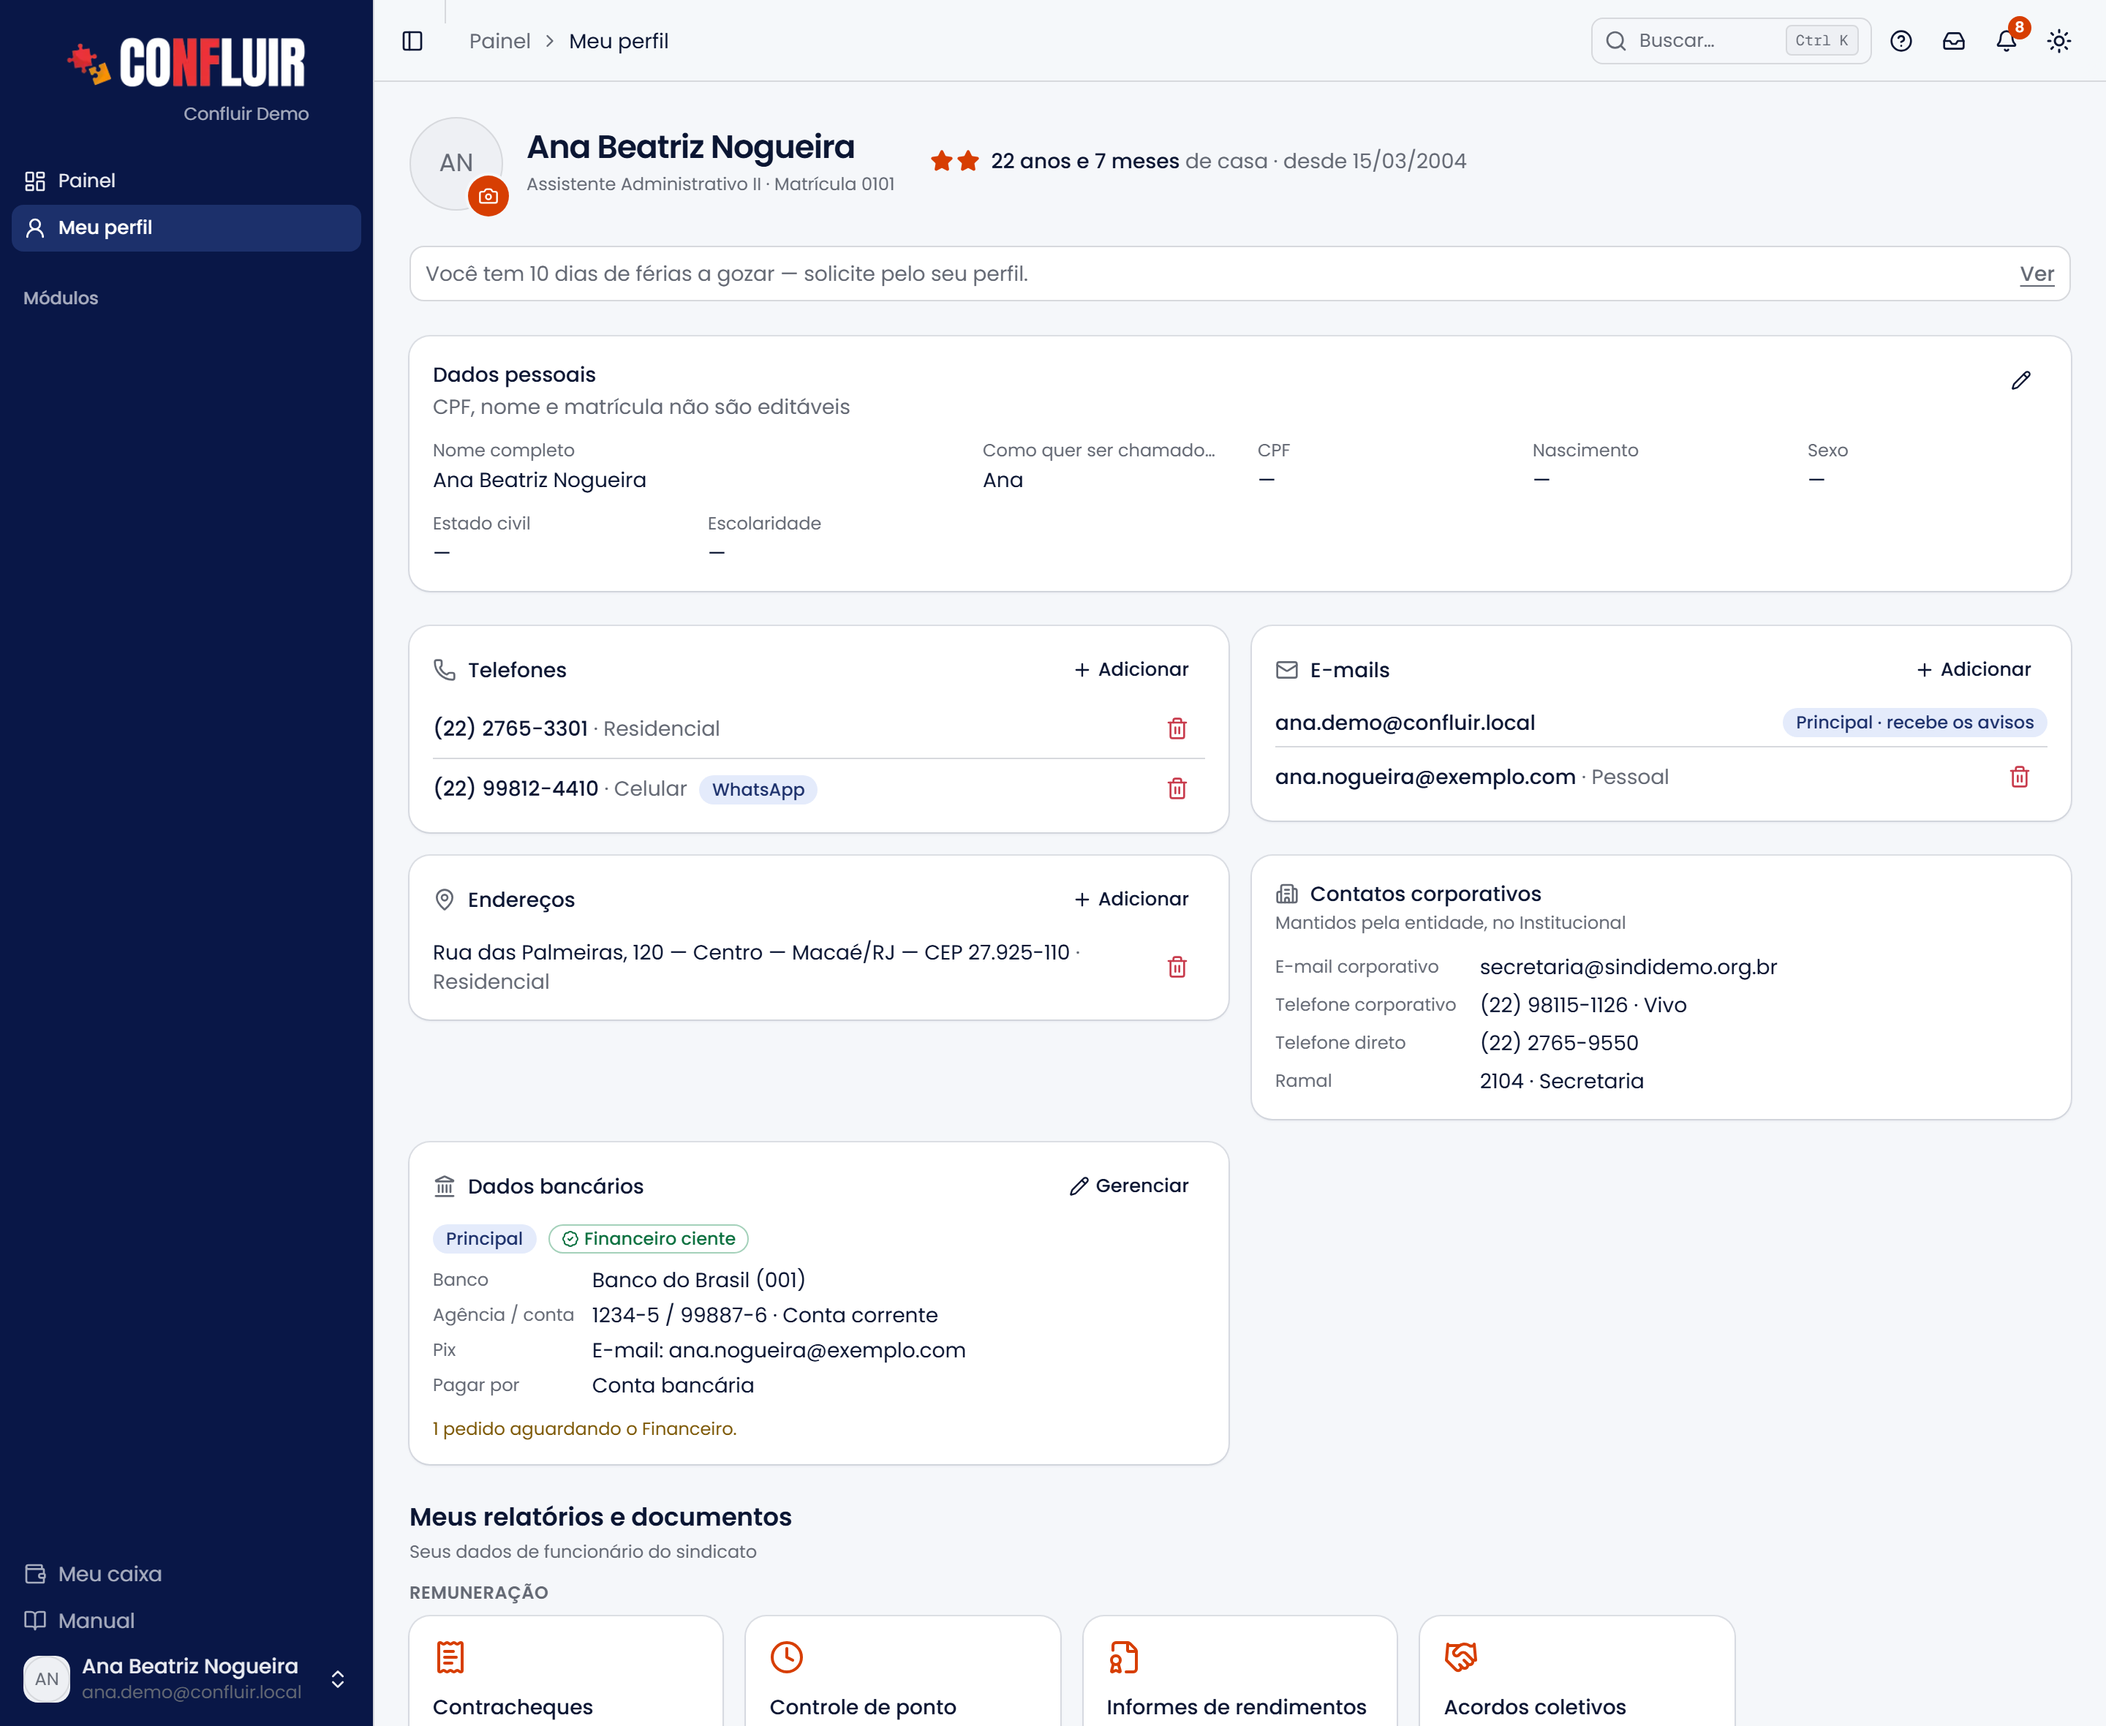
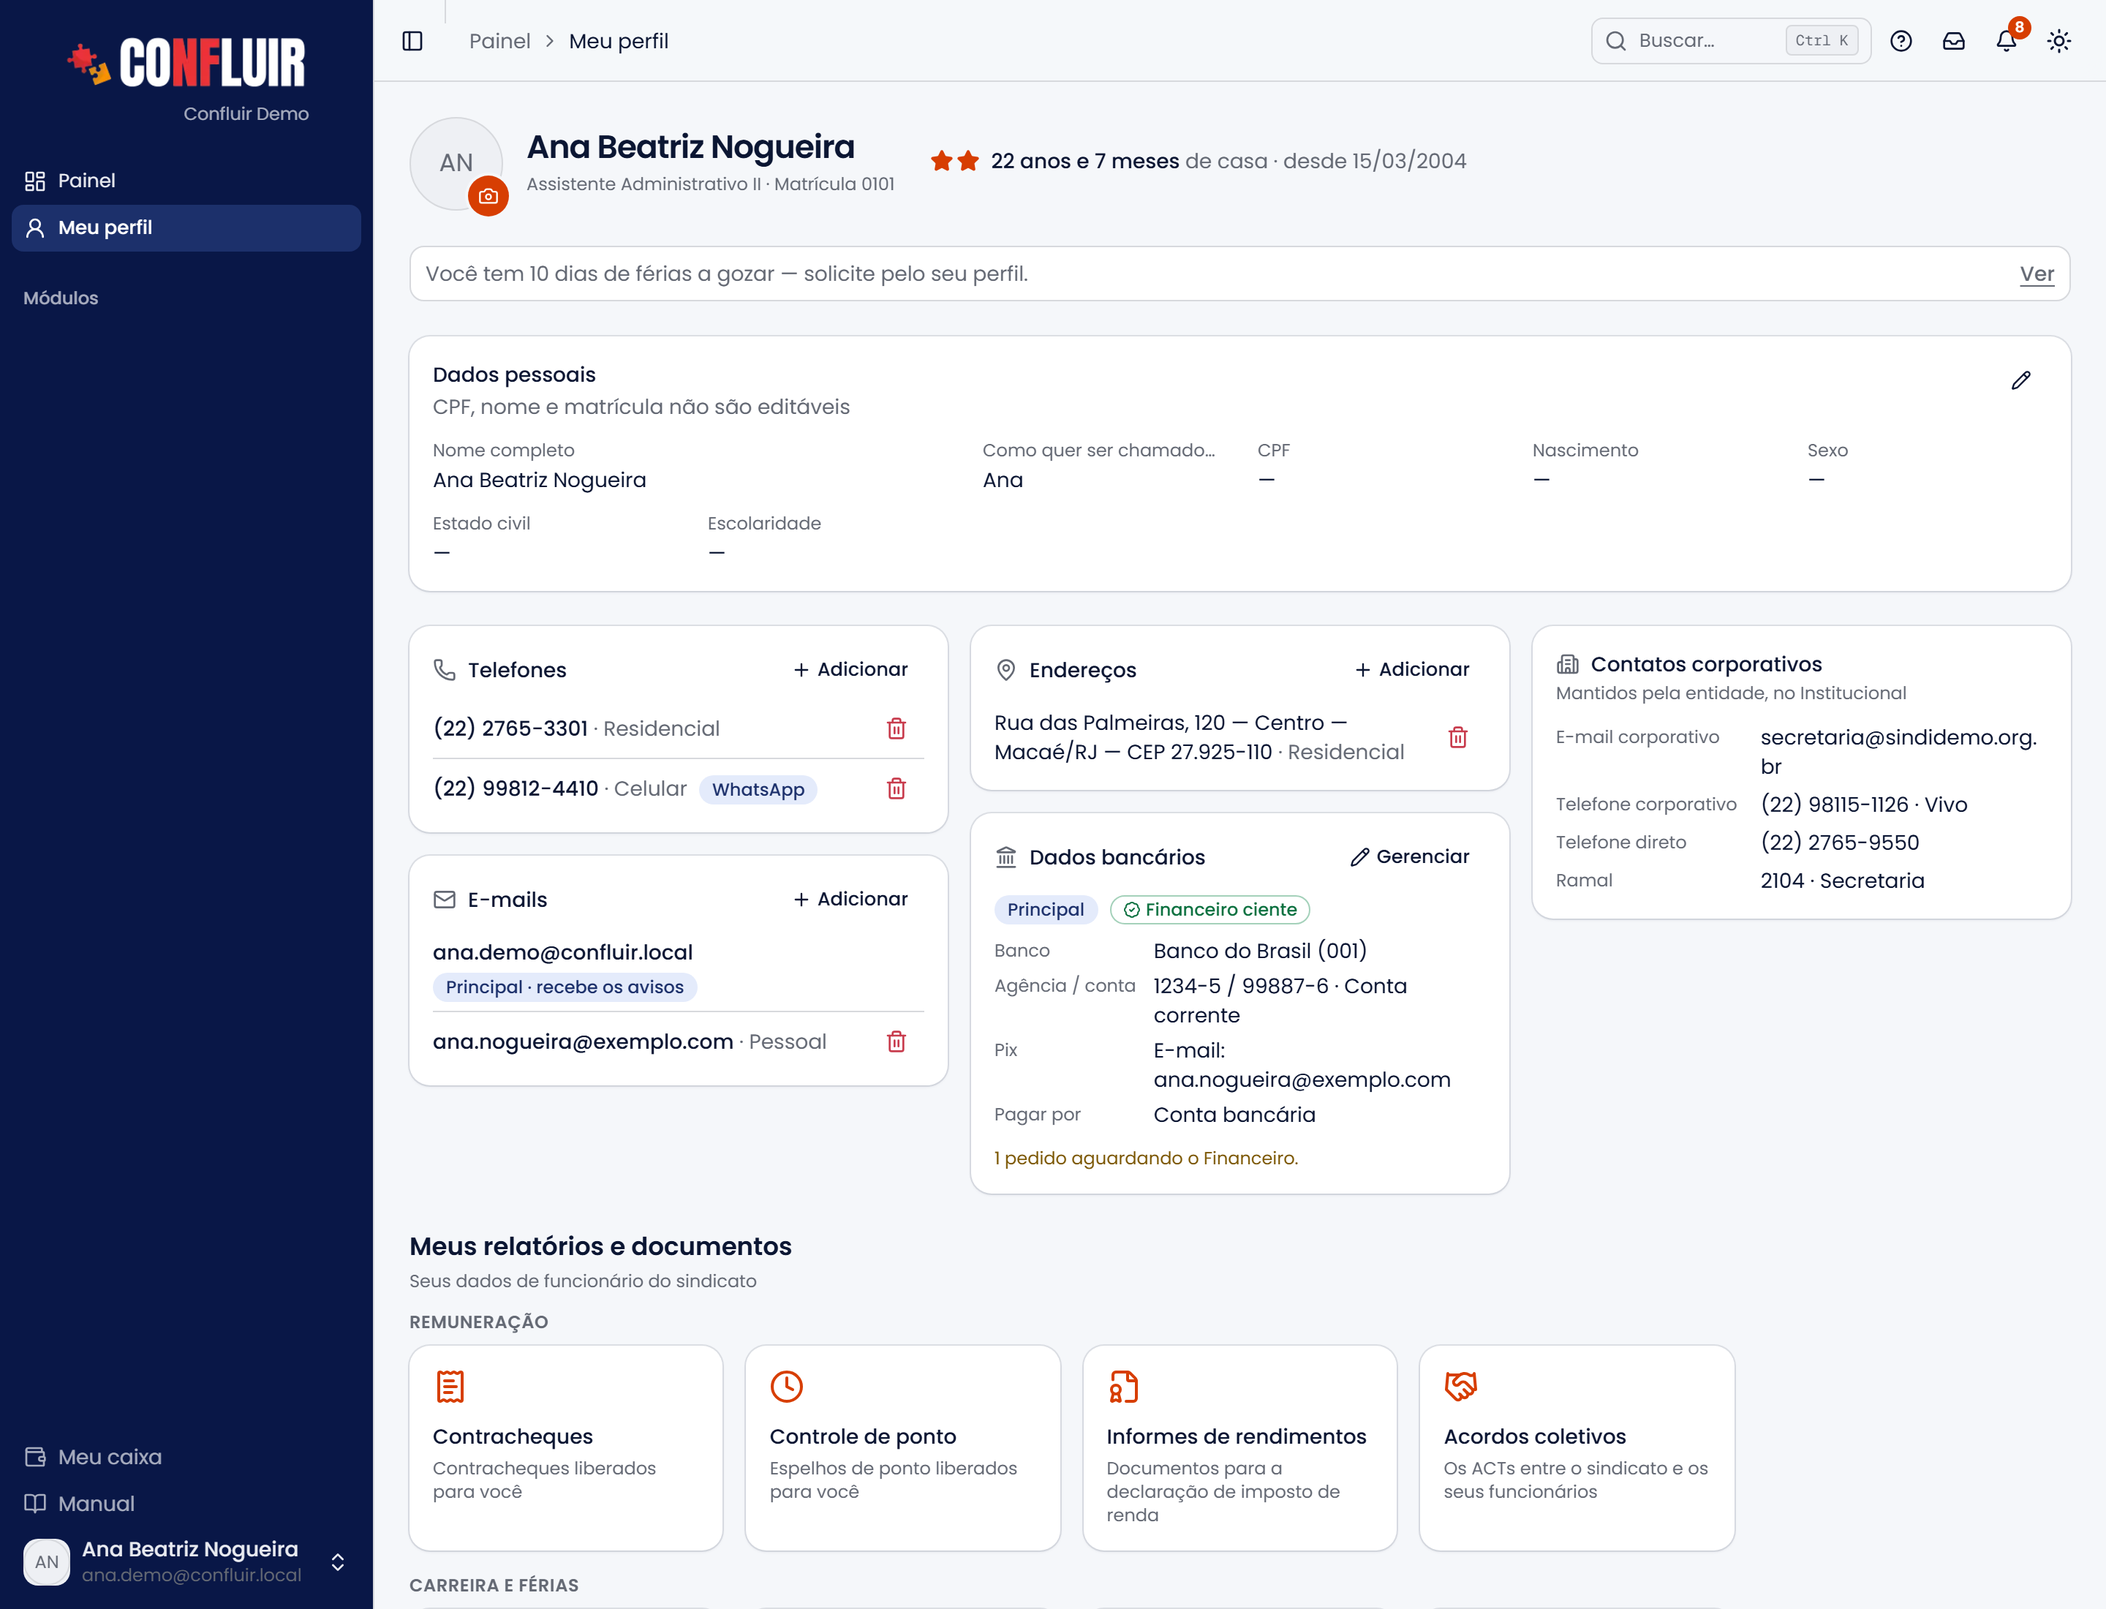
Meu perfil: selo do e-mail principal quebra linha; print do manual em colunas

diff --git a/src/app/painel/perfil/page.tsx b/src/app/painel/perfil/page.tsx
@@ -395,7 +395,7 @@ export default async function PerfilPage({
       {/* Contatos em colunas independentes: cada coluna empilha os seus
           cartões, sem a altura de um puxar a fileira do vizinho. */}
       <div className="grid items-start gap-4 md:grid-cols-2 xl:grid-cols-3">
-        <div className="grid gap-4">
+        <div className="grid min-w-0 gap-4">
           <CartaoLista
             titulo="Telefones"
             item="telefone"
@@ -437,7 +437,7 @@ export default async function PerfilPage({
           >
             <ul className="divide-y">
               {emailPrincipalPessoal && (
-                <li className="flex items-center justify-between gap-3 py-1.5 first:pt-0 last:pb-0">
+                <li className="flex flex-wrap items-center justify-between gap-x-3 gap-y-1 py-1.5 first:pt-0 last:pb-0">
                   <span className="min-w-0 truncate text-sm font-medium">{emailPrincipalPessoal}</span>
                   <Badge variant="secondary" title="Altere pelo lápis de Dados pessoais">
                     Principal · recebe os avisos
@@ -459,7 +459,7 @@ export default async function PerfilPage({
             )}
           </CartaoLista>
         </div>
-        <div className="grid gap-4">
+        <div className="grid min-w-0 gap-4">
           <CartaoLista
             titulo="Endereços"
             item="endereço"
@@ -533,7 +533,7 @@ export default async function PerfilPage({
             </Card>
           )}
         </div>
-        <div className="grid gap-4 md:col-span-2 xl:col-span-1">
+        <div className="grid min-w-0 gap-4 md:col-span-2 xl:col-span-1">
           {/* Espelho das áreas do Institucional: só leitura aqui. */}
           <Card className="gap-0 py-4">
             <CardContent className="grid gap-3 px-4">
